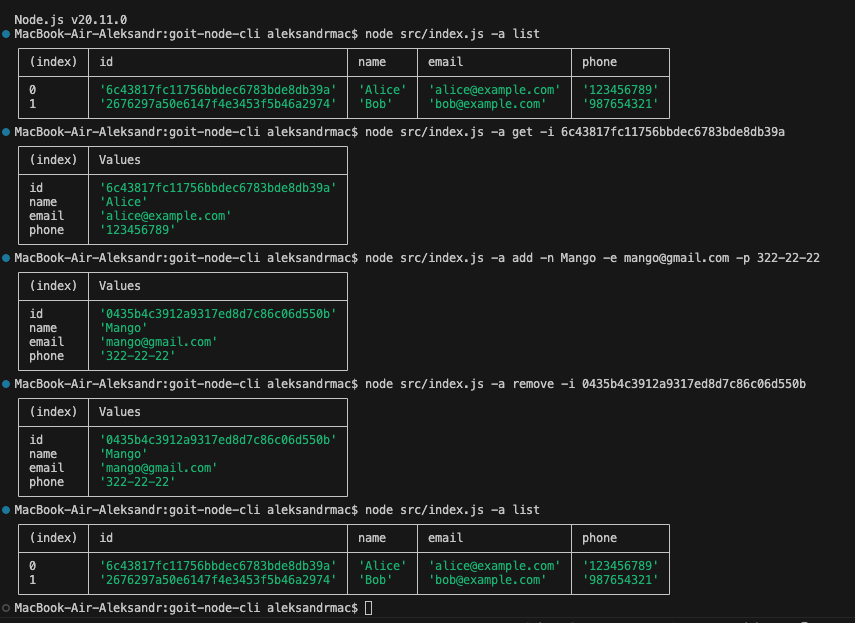
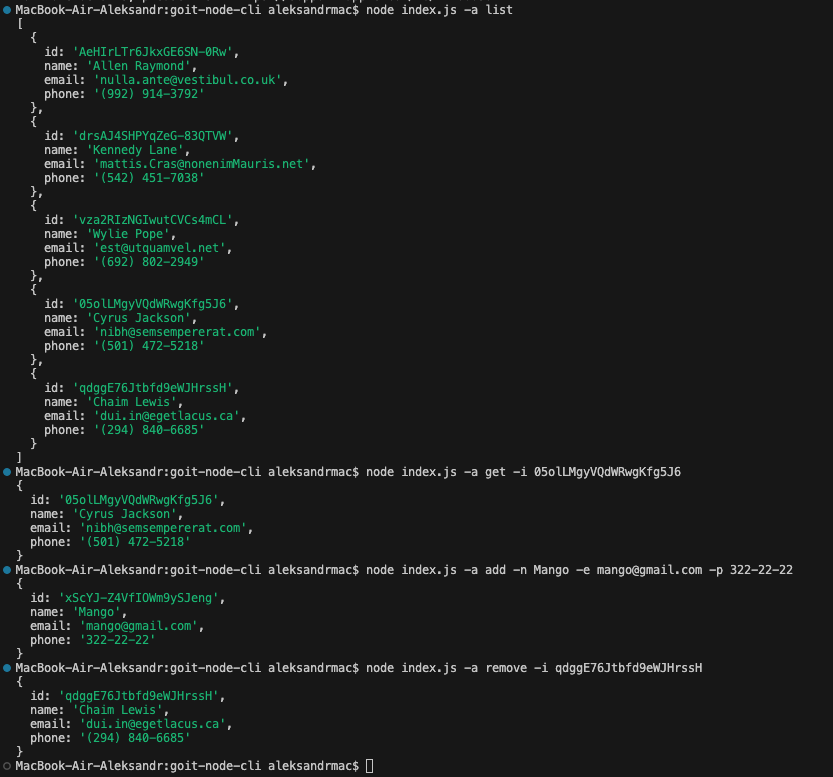
check error

diff --git a/README.md b/README.md
@@ -1,6 +1,6 @@
 # Проект GoIT Node CLI
 
-![Результаты выполнения команд](src/assets/results.png)
+![Результаты выполнения команд](assets/results.png)
 
 ## Описание
 
@@ -16,20 +16,16 @@
 
 1. Вывод всех контактов:
 
-   node src/index.js -a list
+   node index.js -a list
 
 2. Получение контакта по ID:
 
-   node src/index.js -a get -i <contact-id>
+   node index.js -a get -i <contact-id>
 
 3. Добавление нового контакта:
 
-   node src/index.js -a add -n "Имя" -e "email@example.com" -p "123-456-789"
+   node index.js -a add -n "Имя" -e "email@example.com" -p "123-456-789"
 
 4. Удаление контакта по ID:
 
-   node src/index.js -a remove -i <contact-id>
-
-## Лицензия
-
-Этот проект лицензирован под MIT License.
+   node index.js -a remove -i <contact-id>
